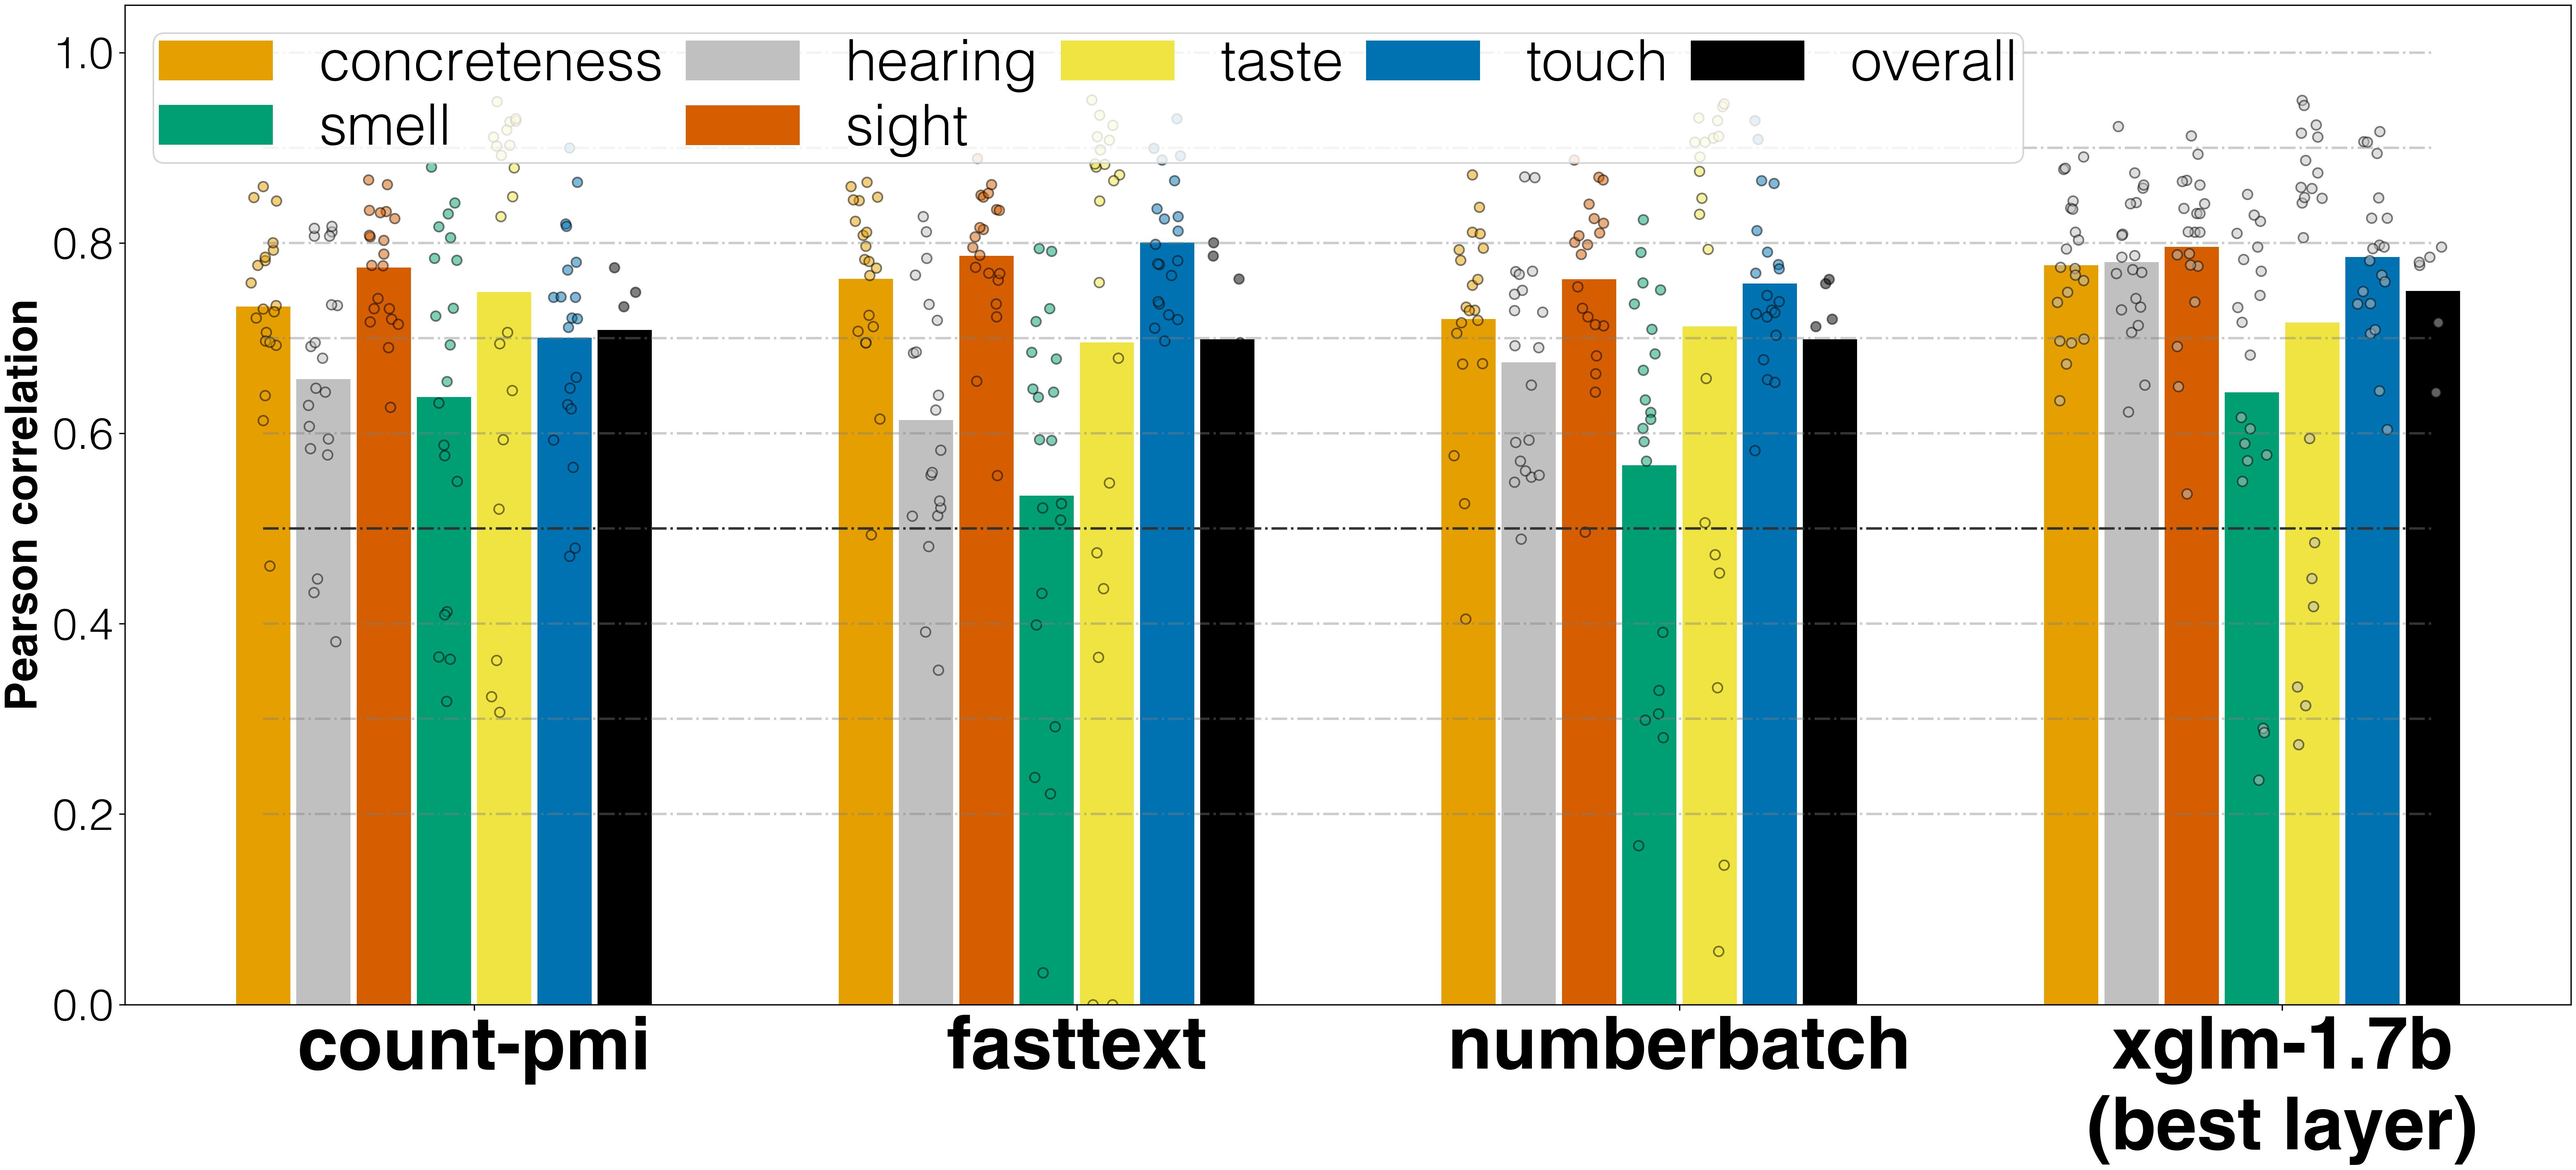
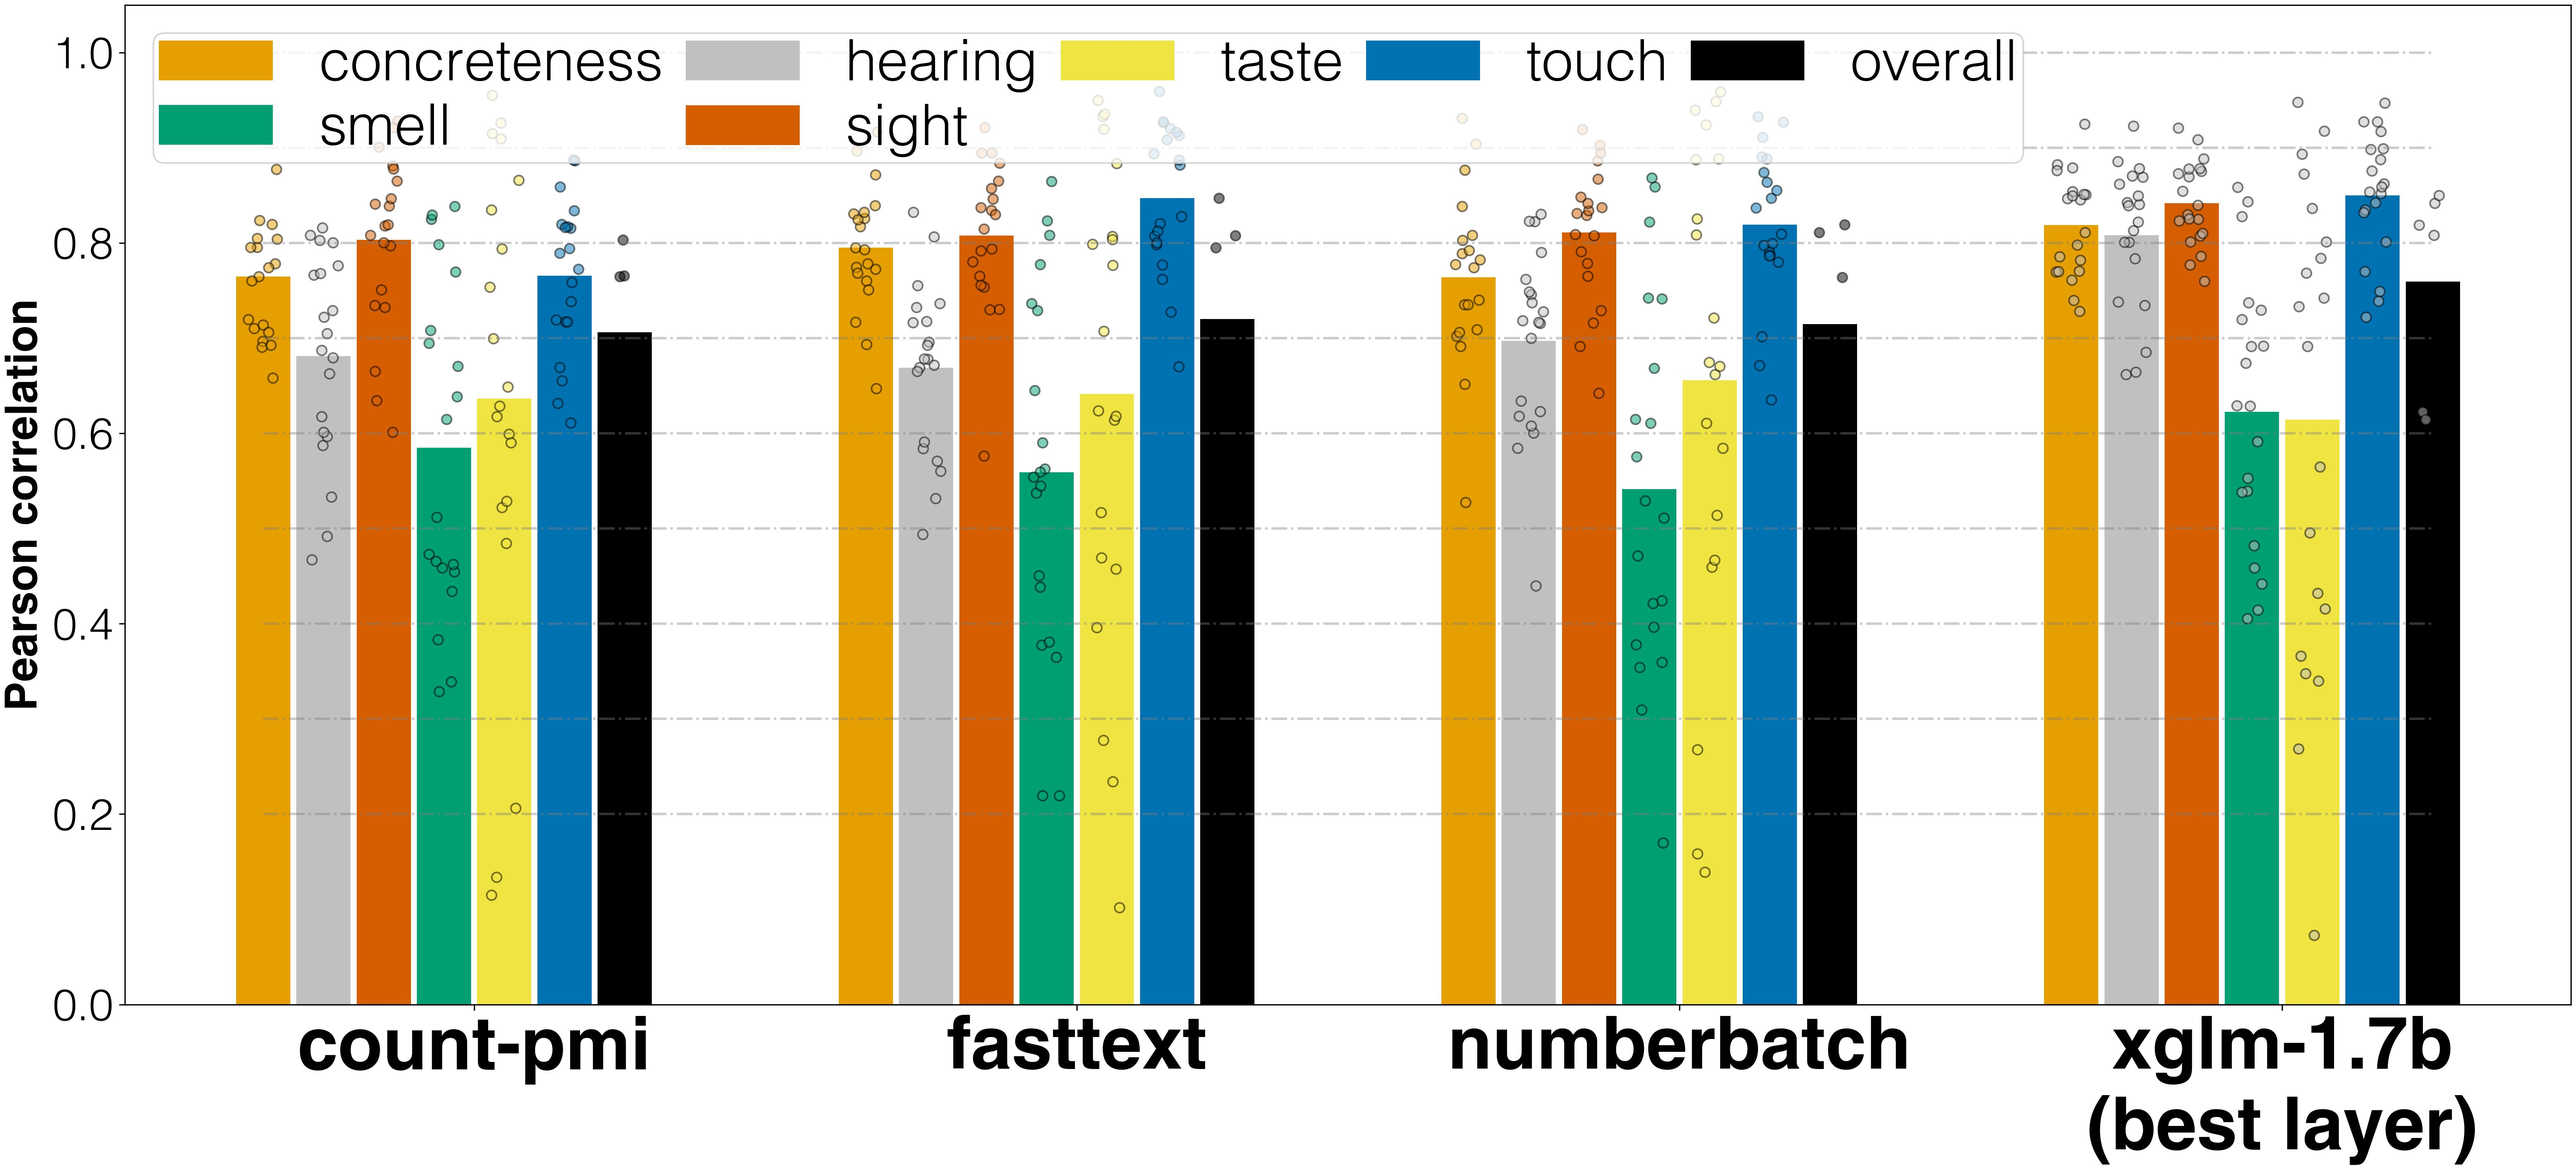
remove line

diff --git a/07_rsa_and_evaluation.py b/07_rsa_and_evaluation.py
@@ -371,7 +371,7 @@ with open('{}.txt'.format(out_file), 'w') as o:
                        edgecolors='black',
                        zorder=2.5,
                        )
-ax.hlines([0.5], xmin=0., color='black', xmax=len(models_sorted)-.4, linestyles='dashdot', zorder=2.5)
+#ax.hlines([0.5], xmin=0., color='black', xmax=len(models_sorted)-.4, linestyles='dashdot', zorder=2.5)
 ax.hlines([0.2, 0.3, 0.4, 0.5, 0.6, 0.7, 0.8, 0.9, 1.], xmin=0., color='grey', alpha=0.4, xmax=len(models_sorted)-.4, linestyles='dashdot', zorder=2.5)
 ### dummy to do the legend
 
